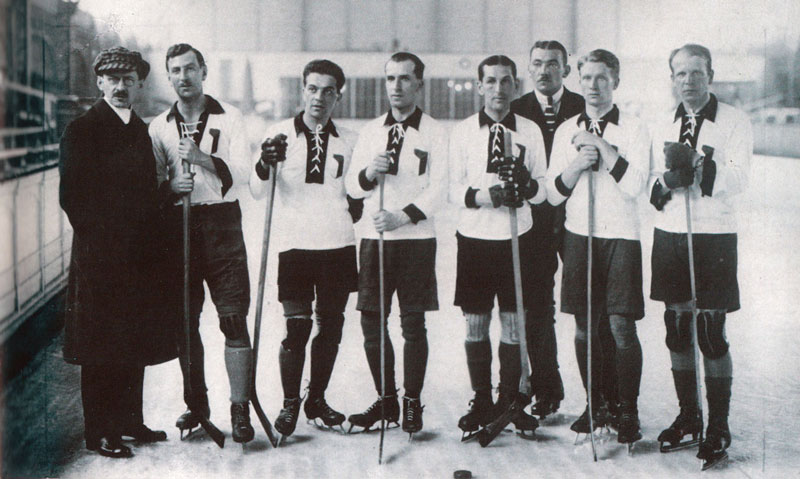
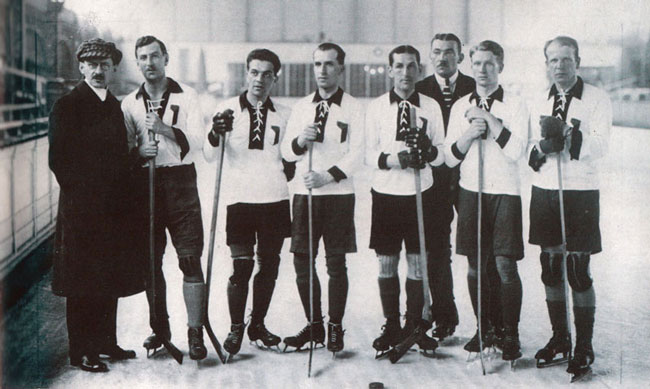
časová osa Chamonix

diff --git a/casova-osa/timeline.html b/casova-osa/timeline.html
@@ -10,7 +10,7 @@
     <div id="timeline"></div>
 <script type="text/javascript">
   var currentTimeline = TimelineSetter.Timeline.boot(
-    [{"date":"Apr 29, 1920","display_date":"23. - 29. dubna 1920","description":"","link":"","series":"Česk(oslovensk)á stopa","html":"<h2>Antverpy 1920: První hokejové medaile</h2><img src='img/1920-hokej.jpg' width='800' /><p>První zimní medaili získalo Československo na VII. letních hrách v Antverpách. Olympijský turnaj v ledním hokeji se konal byl uspořádán na ukázku, zúčastnilo se ho osm zemí. Čechoslováci (na snímku) prohráli s Kanadou 0:15 a se Spojenými státy 0:16. V utkání o třetí místo se jim ovšem podařilo podařilo porazit Švédsko 1:0 jedinou brankou Josefa Šroubka.</p><p style='font-size:x-small;'>Zdroj: DOBROVODSKÝ, Vladimír. Zimní olympijské hry v obrazech: Od Chamonix 1924 ke Calgary 1988. Praha: Olympia, 1987. ISBN 27-052-87.</p>","timestamp":-1567648800000},{"date":"Feb 19, 1984","display_date":"8. - 19. února 1984","description":"","link":"","series":"Vítězové a poražení","html":"<h2>Sarajevo 1984: NDR kraluj v ledových korytech</h2><img src='img/1984-ndr-1.jpg' width='800'/><p>V sedmdesátých a osmdesátých letech dominovali olympijským drahám východoněmečtí bobisté. Na snímku vítězný čtyřbob s pilotem Wolfgangem Hoppem. Při nejrychlejší jízdě dosáhli průměrné rychlosti 94,25 kilometrů za hodinu.</p><p style='font-size:x-small;'>Zdroj: DOBROVODSKÝ, Vladimír. Zimní olympijské hry v obrazech: Od Chamonix 1924 ke Calgary 1988. Praha: Olympia, 1987. ISBN 27-052-87.</p>","timestamp":445993200000}], 
+    [{"date":"Apr 29, 1920","display_date":"Antverpy, 23. - 29. dubna 1920","description":"","link":"","series":"","html":"<h2>První hokejové medaile</h2><img src='img/1920-hokej.jpg' width='650' /><p>První zimní medaili získalo Československo už na VII. letních hrách v Antverpách. Olympijský turnaj v ledním hokeji se konal na ukázku, zúčastnilo se  osm zemí. Čechoslováci (na snímku) prohráli s Kanadou 0:15 a se Spojenými státy 0:16. Přesto postoupili do utkání o třetí místo, v němž se jim podařilo porazit Švédsko 1:0, a to jedinou brankou Josefa Šroubka (třetí zleva).</p><p style='font-size:x-small;'>Zdroj: DOBROVODSKÝ, Vladimír. Zimní olympijské hry v obrazech: Od Chamonix 1924 ke Calgary 1988. Praha: Olympia, 1987. ISBN 27-052-87.</p>","timestamp":-1567645200000},{"date":"Jan 26, 1924","display_date":"Chamonix, 25. ledna - 5. února 1924","description":"","link":"","series":"","html":"<h2>Krkonošský styl</h2><img src='img/1924-sdruzenar.jpg' width='650' /><p>Skokanský můstek byl pokládán za nejlepší na světě, proto také dobový tisk psal, že \"skok v Chamonix byl až dosud největší událostí v dějinách lyžařství!\" Na snímku  československý sdruženář Vinzenz Buchberger, vybojoval sedmé místo. Největší aplaus u diváků sklidil jiný  krajan Josef Bím, \"jehož skoky pokládali za nějaký velmi obtížný a individuální styl,\" a proto nadšeně tleskali a skandovali \"Bravo, Bim-Bam!\" Bím skákal \"krkonošským stylem\" do sedu.  V sedě se pak odrazil rukama a vstal. Neskákal příliš daleko, skončil dvacátý šestý.</p><p style='font-size:x-small;'>Zdroj: DOBROVODSKÝ, Vladimír. Zimní olympijské hry v obrazech: Od Chamonix 1924 ke Calgary 1988. Praha: Olympia, 1987. ISBN 27-052-87.</p>","timestamp":-1449536400000},{"date":"Jan 25, 1924","display_date":"Chamonix, 25. ledna - 5. února 1924","description":"","link":"","series":"","html":"<h2>Sportsmeni v ulicích Chamonix</h2><img src='img/1924-zahajeni.jpg' width='650' /><p>Americká olympijská výprava při slavnostním zahájení první zimní olympiády.</p><p style='font-size:x-small;'>Zdroj: archiv ČTK</p>","timestamp":-1449622800000},{"date":"Jan 27, 1924","display_date":"Chamonix, 25. ledna - 5. února 1924","description":"","link":"","series":"","html":"<h2>Zaujatí rozhodčí?</h2><img src='img/1924-sliva.jpg' width='407' /><p>Josef Slíva byl naším jediným reprezentantem v krasobruslení. Byl vynikající, ale nepřízeň trojice rakouských rozhodčích při hodnocení volné jízdy ho odsunula na čtvrté místo.</p><p style='font-size:x-small;'>Zdroj: DOBROVODSKÝ, Vladimír. Zimní olympijské hry v obrazech: Od Chamonix 1924 ke Calgary 1988. Praha: Olympia, 1987. ISBN 27-052-87.</p>","timestamp":-1449450000000},{"date":"Jan 27, 1924","display_date":"Chamonix, 25. ledna - 5. února 1924","description":"","link":"","series":"","html":"<h2>Rychlonozí Fini</h2><img src='img/1924-rychlobrusleni.jpg' width='650' /><p>Julius Skutnabb a Clas Thunberg, věhlasná dvojice finských rychlobruslařů, ve dvacátých letech nejlepší na světě. Skutnabb vyhrál na 10 kilometrů, na 5 kilometrů byl druhý a ve víceboji třetí. Třicetiletý Thunberg se stal nejúspěšnějším sportovcem první olympiády, získal dokonce pět medailí. Jednu bronzovou, jednu stříbrnou a tři zlaté: na 1500 metrů, na pět kilometrů a víceboji, který byl na olympijských hrách hodnocen poprvé a naposledy.</p><p style='font-size:x-small;'>Zdroj: archiv ČTK</p>","timestamp":-1449450000000},{"date":"Jan 28, 1924","display_date":"Chamonix, 25. ledna - 5. února 1924","description":"","link":"","series":"","html":"<h2>Československo - Kanada 0:30</h2><img src='img/1924-hokej.jpg' width='650' /><p>Českoslovenští hokejisté utrpěli v Chamonix proti Kanadě historickou porážku. Pražské noviny ji tehdy popsaly takto: \"O projetí obranou Kanaďanů pokusili se všichni hráči buď ve dvojici nebo jednotlivě, ale marně. Odnímání puku z hole provádějí Kanaďané způsobem přímo žonglérským, například hráč poklekne v jízdě, brzdí jednou rukou na ledě a položí celou hůl na led, takže puk přes hůl neprojde. Jeden goal dali dokonce tak, že v nejprudší jízdě hráč nabral puk na hůl jak tenisový míč na raketu a vnesl ho rovnou do goalu. Jejich hlad po goalech je tak značný, že i při pádu, když už mají nohy téměř ve vzduchu, snaží se stříleti na goal.\"</p><p style='font-size:x-small;'>Zdroj: DOBROVODSKÝ, Vladimír. Zimní olympijské hry v obrazech: Od Chamonix 1924 ke Calgary 1988. Praha: Olympia, 1987. ISBN 27-052-87.</p>","timestamp":-1449363600000}], 
     {"interval":"","container":"#timeline"}
   );
 </script>
@@ -29,18 +29,50 @@
       
         <tr>
           <td>Apr 29, 1920</td>
-          <td>Česk(oslovensk)á stopa</td>
           <td></td>
           <td></td>
-          <td><h2>Antverpy 1920: První hokejové medaile</h2><img src='img/1920-hokej.jpg' width='800' /><p>První zimní medaili získalo Československo na VII. letních hrách v Antverpách. Olympijský turnaj v ledním hokeji se konal byl uspořádán na ukázku, zúčastnilo se ho osm zemí. Čechoslováci (na snímku) prohráli s Kanadou 0:15 a se Spojenými státy 0:16. V utkání o třetí místo se jim ovšem podařilo podařilo porazit Švédsko 1:0 jedinou brankou Josefa Šroubka.</p><p style='font-size:x-small;'>Zdroj: DOBROVODSKÝ, Vladimír. Zimní olympijské hry v obrazech: Od Chamonix 1924 ke Calgary 1988. Praha: Olympia, 1987. ISBN 27-052-87.</p></td>
+          <td></td>
+          <td><h2>První hokejové medaile</h2><img src='img/1920-hokej.jpg' width='650' /><p>První zimní medaili získalo Československo už na VII. letních hrách v Antverpách. Olympijský turnaj v ledním hokeji se konal na ukázku, zúčastnilo se  osm zemí. Čechoslováci (na snímku) prohráli s Kanadou 0:15 a se Spojenými státy 0:16. Přesto postoupili do utkání o třetí místo, v němž se jim podařilo porazit Švédsko 1:0, a to jedinou brankou Josefa Šroubka (třetí zleva).</p><p style='font-size:x-small;'>Zdroj: DOBROVODSKÝ, Vladimír. Zimní olympijské hry v obrazech: Od Chamonix 1924 ke Calgary 1988. Praha: Olympia, 1987. ISBN 27-052-87.</p></td>
         </tr>
       
         <tr>
-          <td>Feb 19, 1984</td>
-          <td>Vítězové a poražení</td>
+          <td>Jan 26, 1924</td>
           <td></td>
           <td></td>
-          <td><h2>Sarajevo 1984: NDR kraluj v ledových korytech</h2><img src='img/1984-ndr-1.jpg' width='800'/><p>V sedmdesátých a osmdesátých letech dominovali olympijským drahám východoněmečtí bobisté. Na snímku vítězný čtyřbob s pilotem Wolfgangem Hoppem. Při nejrychlejší jízdě dosáhli průměrné rychlosti 94,25 kilometrů za hodinu.</p><p style='font-size:x-small;'>Zdroj: DOBROVODSKÝ, Vladimír. Zimní olympijské hry v obrazech: Od Chamonix 1924 ke Calgary 1988. Praha: Olympia, 1987. ISBN 27-052-87.</p></td>
+          <td></td>
+          <td><h2>Krkonošský styl</h2><img src='img/1924-sdruzenar.jpg' width='650' /><p>Skokanský můstek byl pokládán za nejlepší na světě, proto také dobový tisk psal, že "skok v Chamonix byl až dosud největší událostí v dějinách lyžařství!" Na snímku  československý sdruženář Vinzenz Buchberger, vybojoval sedmé místo. Největší aplaus u diváků sklidil jiný  krajan Josef Bím, "jehož skoky pokládali za nějaký velmi obtížný a individuální styl," a proto nadšeně tleskali a skandovali "Bravo, Bim-Bam!" Bím skákal "krkonošským stylem" do sedu.  V sedě se pak odrazil rukama a vstal. Neskákal příliš daleko, skončil dvacátý šestý.</p><p style='font-size:x-small;'>Zdroj: DOBROVODSKÝ, Vladimír. Zimní olympijské hry v obrazech: Od Chamonix 1924 ke Calgary 1988. Praha: Olympia, 1987. ISBN 27-052-87.</p></td>
+        </tr>
+      
+        <tr>
+          <td>Jan 25, 1924</td>
+          <td></td>
+          <td></td>
+          <td></td>
+          <td><h2>Sportsmeni v ulicích Chamonix</h2><img src='img/1924-zahajeni.jpg' width='650' /><p>Americká olympijská výprava při slavnostním zahájení první zimní olympiády.</p><p style='font-size:x-small;'>Zdroj: archiv ČTK</p></td>
+        </tr>
+      
+        <tr>
+          <td>Jan 27, 1924</td>
+          <td></td>
+          <td></td>
+          <td></td>
+          <td><h2>Zaujatí rozhodčí?</h2><img src='img/1924-sliva.jpg' width='407' /><p>Josef Slíva byl naším jediným reprezentantem v krasobruslení. Byl vynikající, ale nepřízeň trojice rakouských rozhodčích při hodnocení volné jízdy ho odsunula na čtvrté místo.</p><p style='font-size:x-small;'>Zdroj: DOBROVODSKÝ, Vladimír. Zimní olympijské hry v obrazech: Od Chamonix 1924 ke Calgary 1988. Praha: Olympia, 1987. ISBN 27-052-87.</p></td>
+        </tr>
+      
+        <tr>
+          <td>Jan 27, 1924</td>
+          <td></td>
+          <td></td>
+          <td></td>
+          <td><h2>Rychlonozí Fini</h2><img src='img/1924-rychlobrusleni.jpg' width='650' /><p>Julius Skutnabb a Clas Thunberg, věhlasná dvojice finských rychlobruslařů, ve dvacátých letech nejlepší na světě. Skutnabb vyhrál na 10 kilometrů, na 5 kilometrů byl druhý a ve víceboji třetí. Třicetiletý Thunberg se stal nejúspěšnějším sportovcem první olympiády, získal dokonce pět medailí. Jednu bronzovou, jednu stříbrnou a tři zlaté: na 1500 metrů, na pět kilometrů a víceboji, který byl na olympijských hrách hodnocen poprvé a naposledy.</p><p style='font-size:x-small;'>Zdroj: archiv ČTK</p></td>
+        </tr>
+      
+        <tr>
+          <td>Jan 28, 1924</td>
+          <td></td>
+          <td></td>
+          <td></td>
+          <td><h2>Československo - Kanada 0:30</h2><img src='img/1924-hokej.jpg' width='650' /><p>Českoslovenští hokejisté utrpěli v Chamonix proti Kanadě historickou porážku. Pražské noviny ji tehdy popsaly takto: "O projetí obranou Kanaďanů pokusili se všichni hráči buď ve dvojici nebo jednotlivě, ale marně. Odnímání puku z hole provádějí Kanaďané způsobem přímo žonglérským, například hráč poklekne v jízdě, brzdí jednou rukou na ledě a položí celou hůl na led, takže puk přes hůl neprojde. Jeden goal dali dokonce tak, že v nejprudší jízdě hráč nabral puk na hůl jak tenisový míč na raketu a vnesl ho rovnou do goalu. Jejich hlad po goalech je tak značný, že i při pádu, když už mají nohy téměř ve vzduchu, snaží se stříleti na goal."</p><p style='font-size:x-small;'>Zdroj: DOBROVODSKÝ, Vladimír. Zimní olympijské hry v obrazech: Od Chamonix 1924 ke Calgary 1988. Praha: Olympia, 1987. ISBN 27-052-87.</p></td>
         </tr>
       
     </tbody>
